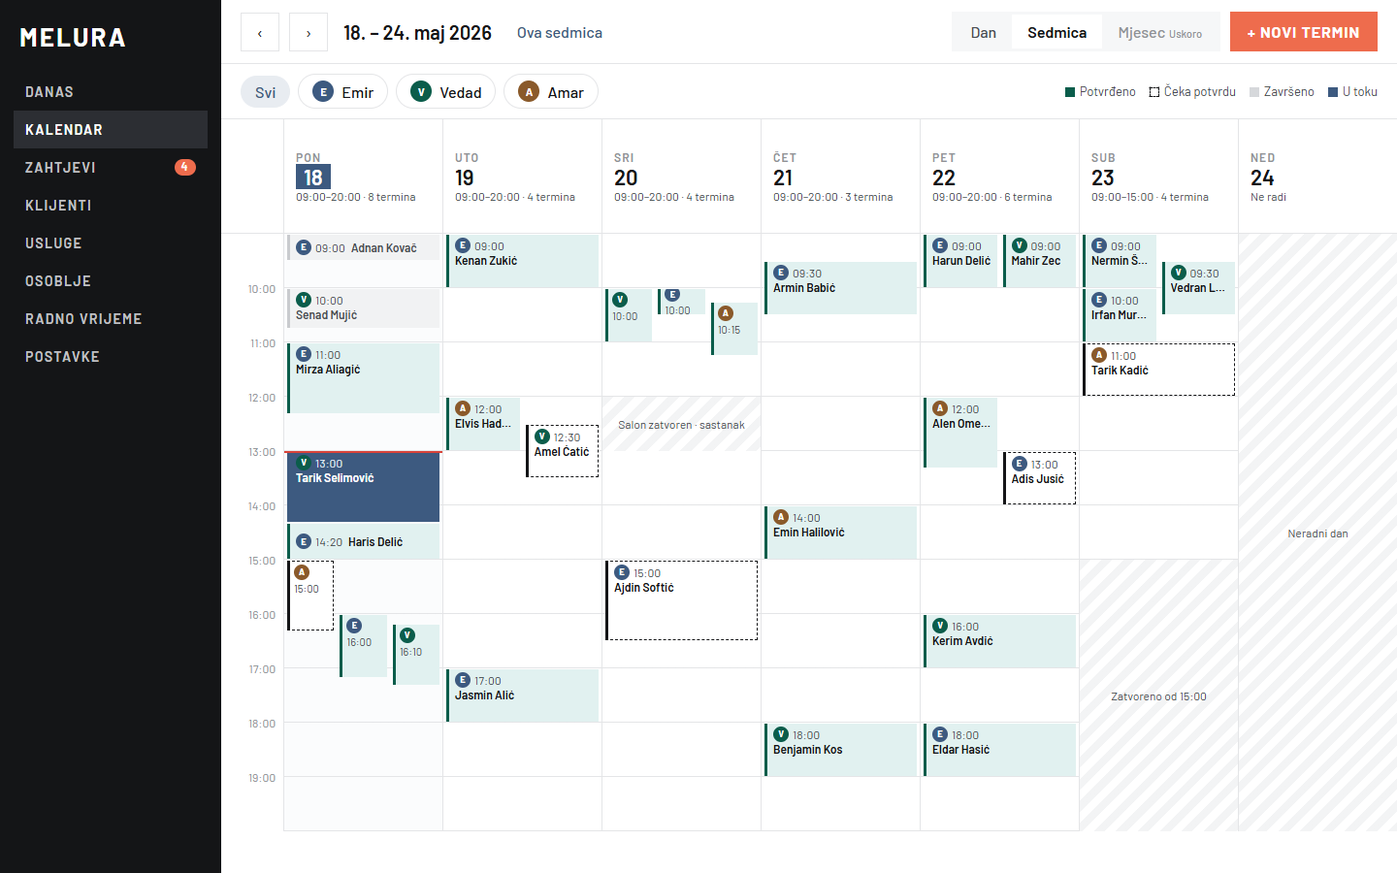
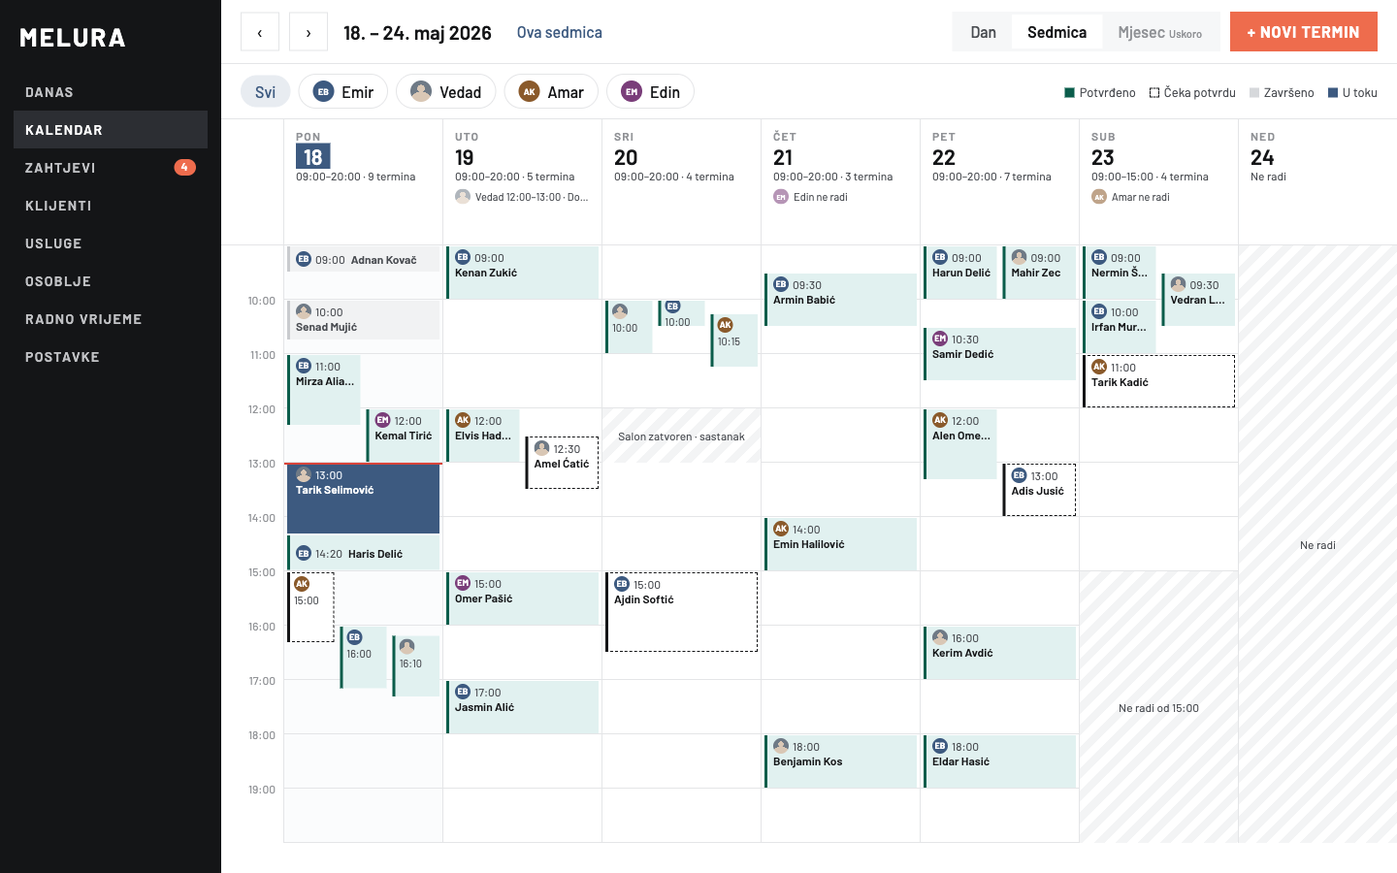
docs(prototype): skica sedmice po odlukama pregleda i tablet 7c
Četiri odluke iz pregleda PR-a #137 (Hamza, 2026-10-16): avatar radnika
je slika ili inicijali na boji iz palete; tekst neradnog je isti kao u
danu („Ne radi od 15:00"); tablet je nacrtan (1024, landscape — portret je
ispod 840 i dobija telefon); uz „Svi" se odsutni radnici kažu u zaglavlju
dana.

Sadržaj bloka sada bira širina, ne broj traka, pa 1440 i 1024 imaju isto
pravilo i sedmica nikad ne skrola vodoravno. Na telefonu je blokada red
liste po vremenu, kao u `redoviKolone`.

Viđeno u Chromeu na 1440, 1024 i 402 (screenshots/7a, 7c, 7b).

diff --git a/prototype/adminv2/sedmica/index.html b/prototype/adminv2/sedmica/index.html
@@ -7,6 +7,8 @@
 <!--
   Skica taska 69 (sedmični kalendar). Nije production kod i ne portuje se: Flutter uzima
   raspored i pravila iz README.md, a boje iz admin teme (`apps/admin/lib/src/core/theme/`).
+  Boje radnika su prva četiri tona `AdminPalette.light.radnici`; u aplikaciji ih dodjeljuje
+  `bojeRadnika` po id-u, ovdje su upisane rukom.
   Podaci su izmišljeni, isti saloni i imena kao u `3c`/`3l`.
 -->
 <link href="https://fonts.googleapis.com/css2?family=Barlow:wght@400;500;600;700&display=swap" rel="stylesheet">
@@ -43,22 +45,34 @@
   .seg small { font-size: 11px; margin-left: 4px; }
   .cta { background: var(--coral); color: #fff; font-weight: 700; letter-spacing: .06em; padding: 11px 18px; }
 
-  .filters { display: flex; gap: 8px; align-items: center; padding: 10px 20px; border-bottom: 1px solid var(--line); }
+  .filters { display: flex; gap: 8px; align-items: center; padding: 10px 20px; border-bottom: 1px solid var(--line); flex-wrap: wrap; }
   .chip { border: 1px solid var(--line); border-radius: 999px; padding: 6px 14px; font-weight: 500; display: inline-flex; gap: 8px; align-items: center; }
   .chip.on { background: #e8ecf1; border-color: #e8ecf1; color: var(--blue); }
   .ini { width: 22px; height: 22px; border-radius: 50%; display: inline-grid; place-items: center;
-    font-size: 11px; font-weight: 700; color: #fff; }
-  .legend { margin-left: auto; display: flex; gap: 14px; color: var(--ink-2); font-size: 13px; }
+    font-size: 9px; font-weight: 700; color: #fff; flex: none; overflow: hidden; }
+  /* Profilna slika radnika; skica nema fotografija, pa je „slika" gradijent sa siluetom. */
+  .ini.foto { background: radial-gradient(circle at 50% 38%, #d9c7b5 0 22%, transparent 23%),
+    radial-gradient(circle at 50% 105%, #d9c7b5 0 45%, transparent 46%), #6f7a86 !important; color: transparent !important; }
+  .legend { margin-left: auto; display: flex; gap: 14px; color: var(--ink-2); font-size: 13px; flex-wrap: wrap; }
   .legend i { display: inline-block; width: 10px; height: 10px; margin-right: 5px; vertical-align: -1px; }
 
   /* ---------- Sedmična mreža ---------- */
-  .week { display: grid; grid-template-columns: var(--axis) repeat(7, minmax(120px, 1fr)); overflow: auto; flex: 1; }
+  /* Sedam kolona uvijek stane: na 1024 je kolona ~100 px, i tada blok skraćuje sadržaj
+     (v. .uzak / .tijesan), umjesto da sedmica skrola vodoravno. */
+  .week { display: grid; grid-template-columns: var(--axis) repeat(7, minmax(0, 1fr)); overflow: auto; flex: 1; }
   .dh { position: sticky; top: 0; z-index: 3; background: #fff; border-bottom: 1px solid var(--line);
-    border-left: 1px solid var(--line); padding: 10px 12px; text-align: left; }
+    border-left: 1px solid var(--line); padding: 10px 12px; text-align: left;
+    display: flex; flex-direction: column; justify-content: flex-start; min-width: 0; }
   .dh:hover { background: var(--bg-2); }
   .dh .d { font-size: 12px; letter-spacing: .1em; color: var(--ink-3); font-weight: 600; }
-  .dh .n { font-size: 22px; font-weight: 600; }
+  .dh .n { font-size: 22px; font-weight: 600; align-self: flex-start; }
   .dh .c { font-size: 12px; color: var(--ink-2); }
+  .dh .c span + span::before { content: ' · '; }
+  .dh .ods { margin-top: 6px; display: grid; gap: 3px; }
+  .dh .ods div { display: flex; gap: 5px; align-items: center; font-size: 11px; color: var(--ink-2);
+    white-space: nowrap; overflow: hidden; text-overflow: ellipsis; min-width: 0; }
+  .dh .ods div span:last-child { overflow: hidden; text-overflow: ellipsis; }
+  .dh .ods .ini { width: 16px; height: 16px; font-size: 7px; opacity: .55; }
   .dh.today .n { color: #fff; background: var(--blue); padding: 0 8px; display: inline-block; }
   .corner { position: sticky; top: 0; z-index: 3; background: #fff; border-bottom: 1px solid var(--line); }
   .axis { position: relative; }
@@ -75,9 +89,14 @@
   .blk b { font-weight: 600; display: block; white-space: nowrap; overflow: hidden; text-overflow: ellipsis; }
   .blk .t { color: var(--ink-2); display: flex; gap: 4px; align-items: center; white-space: nowrap; }
   .blk .ini { width: 16px; height: 16px; font-size: 9px; flex: none; }
+  /* Sadržaj bloka bira **širina**, ne broj traka: ista pravila na 1440 i na tabletu.
+     ≥ 70 px: inicijali + vrijeme + ime · 40–70: inicijali + vrijeme · < 40: samo inicijali. */
   .blk.uzak { padding: 3px 4px; }
   .blk.uzak b { display: none; }
   .blk.uzak .t { flex-direction: column; align-items: flex-start; gap: 2px; font-size: 11px; }
+  .blk.tijesan { padding: 3px 2px; }
+  .blk.tijesan b, .blk.tijesan .t em { display: none; }
+  .blk .t em { font-style: normal; }
   .blk.red { display: flex; gap: 6px; align-items: center; }
   .blk.red b { display: inline; }
   .blk.uzak.red b { display: none; }
@@ -91,7 +110,22 @@
 
   /* ---------- Telefon (3l + agenda sedmice) ---------- */
   .phone { display: none; }
-  @media (max-width: 640px) {
+  /* Tablet u landscapeu (1024): ista mreža, uža traka i zaglavlje u dva reda. */
+  @media (max-width: 1279px) {
+    .app { grid-template-columns: 200px 1fr; }
+    .brand { font-size: 22px; }
+    .nav a { font-size: 13px; letter-spacing: .06em; }
+    .top { padding: 10px 14px; gap: 8px; }
+    .title { font-size: 17px; }
+    .cta { padding: 10px 12px; font-size: 13px; }
+    .filters { padding: 8px 14px; }
+    .legend { margin-left: 0; width: 100%; font-size: 12px; }
+    .dh { padding: 8px 8px; }
+    .dh .c span { display: block; }
+    .dh .c span + span::before { content: none; }
+  }
+  /* Ispod 840 je mobilna ljuska (AdminBreakpoint.desktop) — i iPad u portretu. */
+  @media (max-width: 839px) {
     .app { display: none; }
     .phone { display: block; }
   }
@@ -115,6 +149,9 @@
   .row .card span { font-size: 13px; color: var(--ink-2); }
   .row .card span.ini { color: #fff; font-size: 11px; }
   .ph-off { padding: 10px 16px 14px; color: var(--ink-2); font-size: 14px; }
+  .ph-ods { padding: 0 16px 6px; display: flex; flex-wrap: wrap; gap: 4px 12px; font-size: 13px; color: var(--ink-2); }
+  .ph-ods span { display: inline-flex; gap: 5px; align-items: center; }
+  .ph-ods .ini { width: 16px; height: 16px; font-size: 7px; opacity: .55; }
   .ph-cta { position: sticky; bottom: 0; background: #fff; border-top: 1px solid var(--line); padding: 12px 16px; display: flex; gap: 10px; }
   .ph-cta .cta { flex: 1; padding: 14px; }
 </style>
@@ -158,10 +195,13 @@
 
 <script>
   // Izmišljeni podaci, oblik kao `KalendarDan`: radnici, termini, blokade, radno vrijeme.
+  // Dva radnika na „E" su namjerno: inicijali su dva slova (`inicijaliOd`), a boja ih
+  // dodatno razdvaja. Vedad ima profilnu sliku, pa krug nosi nju umjesto inicijala.
   const radnici = [
-    { id: 'e', ime: 'Emir', boja: '#3d5a80' },
-    { id: 'v', ime: 'Vedad', boja: '#0b5d4b' },
-    { id: 'a', ime: 'Amar', boja: '#8a5a2b' },
+    { id: 'e', ime: 'Emir Bešić', boja: '#3d5a80' },
+    { id: 'v', ime: 'Vedad Hodžić', boja: '#0b5d4b', slika: true },
+    { id: 'a', ime: 'Amar Kovač', boja: '#8a5a2b' },
+    { id: 'd', ime: 'Edin Mujić', boja: '#7a3e7a' },
   ];
   const dani = ['PON', 'UTO', 'SRI', 'ČET', 'PET', 'SUB', 'NED'];
   const datumi = [18, 19, 20, 21, 22, 23, 24];
@@ -182,16 +222,22 @@
     [4,'e',13,14,'Adis Jusić','pending'],[4,'v',16,17,'Kerim Avdić','confirmed'],[4,'e',18,19,'Eldar Hasić','confirmed'],
     [5,'e',9,10,'Nermin Šehić','confirmed'],[5,'v',9.5,10.5,'Vedran Lukić','confirmed'],[5,'e',10,11,'Irfan Muratović','confirmed'],
     [5,'a',11,12,'Tarik Kadić','pending'],
+    [0,'d',12,13,'Kemal Tirić','confirmed'],[1,'d',15,16,'Omer Pašić','confirmed'],[4,'d',10.5,11.5,'Samir Dedić','confirmed'],
   ];
   // Blokade: [dan, radnik|null, od, do, tekst]; null = cijeli salon.
   const blokade = [[2, null, 12, 13, 'Salon zatvoren · sastanak']];
   // Radno vrijeme salona po danu; null = neradni dan.
   const rv = [[9,20],[9,20],[9,20],[9,20],[9,20],[9,15],null];
+  // Uz „Svi": ko je van posla taj dan — [dan, radnik, tekst]. Model: `DanSedmice.odsutni`.
+  const odsutni = [[1,'v','12:00–13:00 · Doktor'],[3,'d','ne radi'],[5,'a','ne radi']];
 
   let filter = null; // null = Svi
   const h = v => (v - OD) * 56;
   const fmt = v => `${String(Math.floor(v)).padStart(2,'0')}:${String(Math.round((v%1)*60)).padStart(2,'0')}`;
-  const ini = r => `<span class="ini" style="background:${r.boja}">${r.ime[0]}</span>`;
+  const inicijali = ime => { const d = ime.trim().split(/\s+/); return (d[0][0] + (d.length > 1 ? d[d.length-1][0] : '')).toUpperCase(); };
+  const ini = r => `<span class="ini ${r.slika ? 'foto' : ''}" style="background:${r.boja}" title="${r.ime}">${inicijali(r.ime)}</span>`;
+  const ime = r => r.ime.split(' ')[0];
+  const odsutniDana = i => filter ? [] : odsutni.filter(o => o[0] === i).map(o => [rad(o[1]), o[2]]);
   const rad = id => radnici.find(r => r.id === id);
   const vidljivi = () => termini.filter(t => !filter || t[1] === filter);
 
@@ -212,7 +258,7 @@
 
   function chips(el) {
     el.innerHTML = [`<button class="chip ${!filter?'on':''}" data-f="">Svi</button>`,
-      ...radnici.map(r => `<button class="chip ${filter===r.id?'on':''}" data-f="${r.id}">${ini(r)}${r.ime}</button>`)].join('');
+      ...radnici.map(r => `<button class="chip ${filter===r.id?'on':''}" data-f="${r.id}">${ini(r)}${ime(r)}</button>`)].join('');
     el.querySelectorAll('[data-f]').forEach(b => b.onclick = () => { filter = b.dataset.f || null; render(); });
   }
 
@@ -222,29 +268,34 @@
       <span><i style="border:1px dashed var(--ink)"></i>Čeka potvrdu</span><span><i style="background:#d6d8db"></i>Završeno</span>
       <span><i style="background:var(--blue)"></i>U toku</span></div>`);
     const w = document.getElementById('week'); const visina = h(DO);
+    const sirinaKolone = (w.clientWidth - 64) / 7;
     let html = `<div class="corner"></div>`;
     dani.forEach((d, i) => {
       const n = vidljivi().filter(t => t[0] === i).length;
       html += `<button class="dh ${i===danas?'today':''}" title="Otvori dan"><div class="d">${d}</div><div class="n">${datumi[i]}</div>
-        <div class="c">${rv[i] ? `${fmt(rv[i][0])}–${fmt(rv[i][1])} · ${n} termina` : 'Ne radi'}</div></button>`;
+        <div class="c">${rv[i] ? `<span>${fmt(rv[i][0])}–${fmt(rv[i][1])}</span><span>${n} termina</span>` : 'Ne radi'}</div>
+        ${rv[i] && odsutniDana(i).length ? `<div class="ods">${odsutniDana(i).map(([r, t]) =>
+          `<div title="${r.ime} ${t}">${ini(r)}<span>${ime(r)} ${t}</span></div>`).join('')}</div>` : ''}</button>`;
     });
     html += `<div class="axis" style="height:${visina}px">${Array.from({length: DO-OD}, (_, k) => k ? `<span style="top:${k*56}px">${fmt(OD+k)}</span>` : '').join('')}</div>`;
     dani.forEach((_, i) => {
       let c = `<div class="col ${i===danas?'today':''}" style="height:${visina}px">`;
-      if (!rv[i]) c += `<div class="off" style="top:0;height:${visina}px">Neradni dan</div>`;
+      // Tekst je isti kao u dnevnom prikazu (`_neradniPojasevi`): „Ne radi", „Ne radi od 15:00".
+      if (!rv[i]) c += `<div class="off" style="top:0;height:${visina}px">Ne radi</div>`;
       else {
-        if (rv[i][0] > OD) c += `<div class="off" style="top:0;height:${h(rv[i][0])}px"></div>`;
-        if (rv[i][1] < DO) c += `<div class="off" style="top:${h(rv[i][1])}px;height:${h(DO)-h(rv[i][1])}px">Zatvoreno od ${fmt(rv[i][1])}</div>`;
+        if (rv[i][0] > OD) c += `<div class="off" style="top:0;height:${h(rv[i][0])}px">Ne radi do ${fmt(rv[i][0])}</div>`;
+        if (rv[i][1] < DO) c += `<div class="off" style="top:${h(rv[i][1])}px;height:${h(DO)-h(rv[i][1])}px">Ne radi od ${fmt(rv[i][1])}</div>`;
       }
       blokade.filter(b => b[0] === i).forEach(b => c += `<div class="off" style="top:${h(b[2])}px;height:${h(b[3])-h(b[2])}px">${b[4]}</div>`);
       if (i === danas) c += `<div class="nowline" style="top:${h(sada)}px"></div>`;
       c += `<div class="slot-hint" style="top:${h(17.5)}px">+ Novi termin 17:30</div>`;
       for (const [t, traka, od] of rasporedi(vidljivi().filter(t => t[0] === i))) {
         const sir = 100 / od, r = rad(t[1]);
-        // Tri+ trake: samo inicijal i vrijeme (ime u tooltipu i detalju). Ispod 40 px: jedan red.
-        const klase = [t[5], od >= 3 ? "uzak" : "", h(t[3]) - h(t[2]) < 40 ? "red" : ""].join(" ");
+        // Sadržaj bira širina bloka (v. CSS .uzak / .tijesan). Ispod 40 px visine: jedan red.
+        const px = sirinaKolone / od - 6;
+        const klase = [t[5], px < 40 ? "uzak tijesan" : px < 70 ? "uzak" : "", h(t[3]) - h(t[2]) < 40 ? "red" : ""].join(" ");
         c += `<div class="blk ${klase}" style="top:${h(t[2])+1}px;height:${h(t[3])-h(t[2])-2}px;left:calc(${traka*sir}% + 3px);width:calc(${sir}% - 6px)"
-          title="${t[4]} · ${fmt(t[2])}–${fmt(t[3])} · ${r.ime}"><span class="t">${ini(r)}${fmt(t[2])}</span><b>${t[4]}</b></div>`;
+          title="${t[4]} · ${fmt(t[2])}–${fmt(t[3])} · ${r.ime}"><span class="t">${ini(r)}<em>${fmt(t[2])}</em></span><b>${t[4]}</b></div>`;
       }
       html += c + '</div>';
     });
@@ -257,10 +308,15 @@
     dani.forEach((d, i) => {
       const lista = vidljivi().filter(t => t[0] === i).sort((x, y) => x[2] - y[2]);
       html += `<section class="ph-day ${i===danas?'today':''}"><h2><b>${d} ${datumi[i]}.</b><span>${rv[i] ? `${lista.length} termina` : 'Ne radi'}</span></h2>`;
-      if (!rv[i]) html += `<div class="ph-off">Neradni dan</div>`;
-      blokade.filter(b => b[0] === i).forEach(b => html += `<div class="ph-off">${fmt(b[2])}–${fmt(b[3])} · ${b[4]}</div>`);
-      for (const t of lista) {
-        html += `<div class="row"><div class="tm">${fmt(t[2])}</div><div class="card ${t[5]==='now'?'confirmed':t[5]}"><div><b>${t[4]}</b><span>${fmt(t[2])}–${fmt(t[3])}</span></div>${ini(rad(t[1]))}</div></div>`;
+      if (!rv[i]) html += `<div class="ph-off">Ne radi</div>`;
+      else if (odsutniDana(i).length) html += `<div class="ph-ods">${odsutniDana(i).map(([r, t]) => `<span>${ini(r)}${ime(r)} ${t}</span>`).join('')}</div>`;
+      // Blokada je red liste po vremenu, kao u `redoviKolone` — ne zaglavlje dana.
+      const redovi = [...lista.map(t => [t[2], 't', t]), ...blokade.filter(b => b[0] === i).map(b => [b[2], 'b', b])]
+        .sort((x, y) => x[0] - y[0]);
+      for (const [, vrsta, t] of redovi) {
+        html += vrsta === 'b'
+          ? `<div class="ph-off">${fmt(t[2])}–${fmt(t[3])} · ${t[4]}</div>`
+          : `<div class="row"><div class="tm">${fmt(t[2])}</div><div class="card ${t[5]==='now'?'confirmed':t[5]}"><div><b>${t[4]}</b><span>${fmt(t[2])}–${fmt(t[3])}</span></div>${ini(rad(t[1]))}</div></div>`;
       }
       html += '</section>';
     });
@@ -269,6 +325,7 @@
 
   function render() { desktop(); phone(); }
   render();
+  addEventListener('resize', render);
 </script>
 </body>
 </html>

diff --git a/prototype/adminv2/sedmica/README.md b/prototype/adminv2/sedmica/README.md
@@ -1,15 +1,29 @@
 # Sedmica — skica za task 69
 
-Sedmični prikaz kalendara u Meluri (`7a` desktop, `7b` telefon). Ovo nije dizajnerski handoff nego
-**skica iz taska**, jer u `adminv2/export/` sedmice nema (`3c` crta samo prekidač). Oblik se
-naslanja na `3c` (mreža dana) i `3l` (lista na telefonu), pa za sve što ovdje nije rečeno važe oni.
+Sedmični prikaz kalendara u Meluri (`7a` desktop, `7c` tablet, `7b` telefon). Ovo nije dizajnerski
+handoff nego **skica iz taska**, jer u `adminv2/export/` sedmice nema (`3c` crta samo prekidač).
+Oblik se naslanja na `3c` (mreža dana) i `3l` (lista na telefonu), pa za sve što ovdje nije rečeno
+važe oni.
 
-- `index.html` — skica, otvara se preko lokalnog servera (`npx http-server` u ovom folderu), jer
-  browser blokira `file:`. Klik na čip radnika filtrira. Podaci su izmišljeni.
-- `screenshots/7a-sedmica-1440.png`, `screenshots/7b-sedmica-402.png`
+- `index.html` — skica, otvara se preko lokalnog servera (`python3 -m http.server` u ovom
+  folderu), jer browser blokira `file:`. Klik na čip radnika filtrira, a promjena širine prozora
+  prelazi 1440 → 1024 → 402. Podaci su izmišljeni.
+- `screenshots/7a-sedmica-1440.png`, `7c-sedmica-1024.png`, `7b-sedmica-402.png`,
+  `7b-sedmica-402-odsutni.png` (utorak i srijeda: red odsutnih i blokada u listi)
 
-**Iz skice se uzimaju raspored i pravila, ne boja.** Boje termina i radnika dolaze iz admin teme,
-kao u dnevnom prikazu.
+**Iz skice se uzimaju raspored i pravila, ne boja.** Boje termina dolaze iz admin teme, kao u
+dnevnom prikazu; boje radnika iz `AdminPalette.radnici`.
+
+## Odluke (Hamza, 2026-10-16)
+
+1. **Radnik = profilna slika, a bez nje krug sa inicijalima na boji radnika.** Boja se ne bira:
+   `bojeRadnika` je dodjeljuje iz id-a radnika, stabilno na svim uređajima, i dok ima boja dva
+   radnika je ne dijele. Inicijali su dva slova (`inicijaliOd`: Emir Bešić → EB, Edin Mujić → EM),
+   pa se radnici na isto slovo razlikuju i bez boje.
+2. **Tekst neradnog je isti kao u danu**: „Ne radi", „Ne radi do 09:00", „Ne radi od 15:00".
+3. **Tablet je nacrtan** (`7c`, 1024 u landscapeu). iPad u portretu je ispod 840 i dobija
+   telefonski raspored (`AdminBreakpoint.desktop`).
+4. **Uz „Svi" se odsutnost radnika kaže u zaglavlju dana**, a ne crta u koloni (v. Pravila).
 
 ## Pravila
 
@@ -17,13 +31,16 @@ kao u dnevnom prikazu.
 |---|---|
 | Ulaz | „Sedmica" u postojećem prekidaču `Dan · Sedmica · Mjesec`. „Mjesec" ostaje ugašen sa „Uskoro" |
 | Kolone | 7 dana, ponedjeljak–nedjelja, sedmica u kojoj je izabrani datum. Strelice idu za sedmicu, „Ova sedmica" vraća na tekuću |
-| Radnici | **Svi u istoj koloni dana** (odluka 2026-10-14). Svaki termin nosi inicijal radnika; čipovi `Svi · Emir · …` filtriraju. Radnik vidi samo svoje, bez čipova |
+| Radnici | **Svi u istoj koloni dana** (odluka 2026-10-14). Svaki termin nosi avatar radnika (slika ili inicijali na boji); čipovi `Svi · Emir · …` filtriraju i nose isti avatar. Radnik vidi samo svoje, bez čipova |
 | Zaglavlje dana | Dan, datum, radno vrijeme salona i broj termina. Danas je istaknut. **Tap na zaglavlje otvara taj dan** u prikazu „Dan" |
+| Odsutni (uz „Svi") | Ispod podnaslova, red po radniku: „Edin ne radi" (nema smjene ili je dan zatvoren), pa „Vedad 12:00–13:00 · Doktor" (radnikova blokada), po vremenu. Avatar je prigušen. Tekst se reže sa „…", pun je u tooltipu. Nema ga kad salon taj dan ne radi ni kad je filtriran radnik — tada je sve već u koloni. Model: `DanSedmice.odsutni` |
 | Vremenska osa | Od najranijeg početka do najkasnijeg kraja radnog vremena u toj sedmici, ne fiksno |
-| Termin | Inicijal + početak + ime klijenta. Status kao u danu: potvrđen, čeka potvrdu (isprekidan rub, FE-403), završen, u toku |
-| Preklapanje | Jedan pored drugog, kao u danu. Od tri trake naviše blok nosi samo inicijal i vrijeme; ime je u detalju. Termin kraći od ~40 px staje u jedan red |
-| Neradno | Neradni dan je šrafirana cijela kolona („Neradni dan"). Prije otvaranja i poslije zatvaranja je šrafirano. Salonska blokada je šrafirana sa svojim tekstom; radnikova blokada se crta samo kad je filtriran taj radnik |
+| Termin | Avatar + početak + ime klijenta. Status kao u danu: potvrđen, čeka potvrdu (isprekidan rub, FE-403), završen, u toku |
+| Preklapanje | Jedan pored drugog, kao u danu. **Sadržaj bira širina bloka**, ne broj traka, da 1440 i tablet imaju isto pravilo: ≥ 70 px avatar + vrijeme + ime, 40–70 px avatar + vrijeme, < 40 px samo avatar. Ime je uvijek u tooltipu i detalju. Termin kraći od ~40 px staje u jedan red |
+| Tablet (840–1279) | Ista mreža od 7 kolona, **bez vodoravnog skrola**: na 1024 je kolona ~108 px, pa blok skraćuje sadržaj po pravilu iznad. Podnaslov zaglavlja ide u dva reda (radno vrijeme / broj termina), legenda u svoj red ispod čipova |
+| Neradno | Neradni dan je šrafirana cijela kolona („Ne radi"). Prije otvaranja i poslije zatvaranja je šrafirano („Ne radi do …", „Ne radi od …"). Salonska blokada je šrafirana sa svojim tekstom; radnikova blokada se u koloni crta samo kad je filtriran taj radnik, a uz „Svi" je red odsutnih |
+| Radnik duže od salona | Uz „Svi" kolona crta salonsko radno vrijeme, pa termin radnika poslije zatvaranja salona stoji preko šrafure „Ne radi od …". To je namjerno: termin se ne smije sakriti, a filtriran radnik dobija svoju smjenu |
 | Sada | Crvena linija samo u koloni današnjeg dana |
 | Tap | Termin otvara **isti detalj** kao dnevni prikaz. Prazno mjesto nudi ručno zakazivanje za taj dan i vrijeme (zaokruženo na 30 min) |
-| Telefon | Podrazumijevano je „Dan" (`3l`). „Sedmica" je **lista po danima**: zaglavlje dana, pa termini po vremenu sa inicijalom radnika. Neradni dan je jedan red. Mreža od 7 kolona se ne stiska na 402 px (`SPEC.md`) |
+| Telefon (< 840) | Podrazumijevano je „Dan" (`3l`). „Sedmica" je **lista po danima**: zaglavlje dana, red odsutnih, pa termini i blokade po vremenu sa avatarom radnika. Neradni dan je jedan red. Mreža od 7 kolona se ne stiska na 402 px (`SPEC.md`) |
 | Prazno | Sedmica bez termina i dalje crta kolone i radno vrijeme; prazna lista na telefonu kaže „Nema termina ove sedmice" |

diff --git a/tasks/CURRENT.md b/tasks/CURRENT.md
@@ -8,7 +8,8 @@ U toku (grana `feat/sedmicni-kalendar`, 2026-10-14).
 
 ## Ciljevi
 
-- [x] Dizajn prije koda: skica sedmice u `prototype/adminv2/sedmica/` (1440 i 402) — čeka odobrenje u PR-u
+- [x] Dizajn prije koda: skica sedmice u `prototype/adminv2/sedmica/` (1440, 1024 i 402) — odobrena
+      uz četiri odluke (Hamza, 2026-10-16, v. `README.md` skice)
 - [ ] „Sedmica" u postojećem prekidaču `Dan · Sedmica · Mjesec` radi; „Mjesec" ostaje „Uskoro"
 - [ ] Sedmica = 7 kolona (dani) sa terminima, blokadama i neradnim danima iz `working_hours`
 - [ ] Tap na termin otvara isti detalj kao dnevni prikaz; tap na prazno nudi ručno zakazivanje
@@ -30,6 +31,15 @@ U toku (grana `feat/sedmicni-kalendar`, 2026-10-14).
   čipa. Dokaz: `calendar_week_test` (20) + `blocked_slot_repository_test` (2); dvije mutacije
   (radnikova blokada u „Svi", pogrešan ponedjeljak) obaraju 2 i 14 testova; admin 597, core_api
   144, analyze i format čisti. Bez nove migracije: RLS za čitanje je isti kao za dan.
+- **Pregled (Hamza, 2026-10-16) je zatvoren u istoj grani.** Boje radnika su tokeni
+  `AdminPalette.radnici` (8 tonova, AA u obje teme), dodjeljuje ih `bojeRadnika` iz id-a; uz „Svi"
+  `DanSedmice.odsutni` kaže ko ne radi i čija je blokada; `kalendarSedmicaProvider` čeka i radnike.
+  Pravila providera (ključ na ponedjeljku, uloga pobjeđuje čip, strelica preko promjene vremena)
+  dokazuje `calendar_week_providers_test`; šest mutacija obara po barem jedan test. Admin 628.
+  DST test se u UTC-u (CI) preskače sa razlogom umjesto da prolazi prazan.
+- **Za ekran:** avatar je `ProfilAvatar` (slika radnika, `employees.image_url`), a bez slike krug
+  na `bojaRadnika(boje[id])` sa `onRadnik` inicijalima — `ProfilAvatar` za to treba parametar boje.
+  Sadržaj bloka bira širina (≥ 70 / 40–70 / < 40 px), ne broj traka.
 - Poslije `git pull` na `develop` treba `flutter gen-l10n` u `apps/client`, inače `melos run
   analyze` pada na stringu iz taska 65 (generisani l10n nije u gitu).
 - Vizuelni izvor je `prototype/adminv2/` (ADR-0016); sedmice tamo nema, zato skica ide prva.

diff --git a/prototype/CLAUDE.md b/prototype/CLAUDE.md
@@ -6,7 +6,7 @@
 |---|---|---|
 | `ui/` | Dizajnerski handoff: 17 ekrana u punoj vjernosti, finalni copy, tokeni, komponente | **Vizuelni izvor istine** |
 | `beauty/` | Handoff teme `elegant_beauty`: isti shell kao `ui/`, svijetla paleta, brand uloge izvedene iz jedne boje, 21 ekran | **Izvor istine za beauty temu** (task 52) |
-| `adminv2/` | Melura redizajn: isti 21 prikaz (`3a`–`3u`), noviji izgled; u `profil/` meni korisnika i Moj profil (`4a`–`4e`, task 61, sa svojim `README.md`); u `toast/` toast obavijesti (`5a`–`5c`, task 62); u `danas/` novi Danas (`6a`–`6m`, task 55, ADR-0027) — za Danas jači od `3b`/`3k`; u `mobile-refresh/` mobilni shell (Danas, Kalendar, Zahtjevi, Još, brze akcije) — za telefon jači od `3k`–`3t`; u `sedmica/` skica sedmičnog kalendara (`7a`–`7b`, task 69) | **Vizuelni izvor istine za `apps/admin`** |
+| `adminv2/` | Melura redizajn: isti 21 prikaz (`3a`–`3u`), noviji izgled; u `profil/` meni korisnika i Moj profil (`4a`–`4e`, task 61, sa svojim `README.md`); u `toast/` toast obavijesti (`5a`–`5c`, task 62); u `danas/` novi Danas (`6a`–`6m`, task 55, ADR-0027) — za Danas jači od `3b`/`3k`; u `mobile-refresh/` mobilni shell (Danas, Kalendar, Zahtjevi, Još, brze akcije) — za telefon jači od `3k`–`3t`; u `sedmica/` skica sedmičnog kalendara (`7a`–`7c`: desktop, telefon, tablet; task 69, sa svojim `README.md`) | **Vizuelni izvor istine za `apps/admin`** |
 | `admin/` | Stariji Salon OS handoff: istih 21 prikaz plus `SPEC.md` | **Vizual zastario, tekst važi** |
 | `wireframe/` | Stariji React/Vite prototip sa svojim toolchainom | **Zamrznut** |
 | `masaza/` | Handoff vertikale `health`: masaža (18 ekrana) i u `fizio/` fizioterapija kao drugi tenant (15 ekrana), isti shell kao `ui/`, light + dark | Izvor istine za **paletu, pismo i rječnik** `health` tema (ADR-0026); oblik ekrana i dark ostaju iz `ui/`, v. `masaza/README.md` |

diff --git a/tasks/zero-crisis/69-sedmicni-kalendar.md b/tasks/zero-crisis/69-sedmicni-kalendar.md
@@ -19,4 +19,5 @@ prikaz ostaje default.
 - [ ] Widget testovi za obje uloge; viđeno na 1440 i 402
 
 ## Status
-U toku (grana `feat/sedmicni-kalendar`, 2026-10-14).
+U toku (grana `feat/sedmicni-kalendar`, 2026-10-14). Skica odobrena 2026-10-16 (1440, 1024, 402); sloj
+podataka gotov i pregledan; ekran sljedeći.
